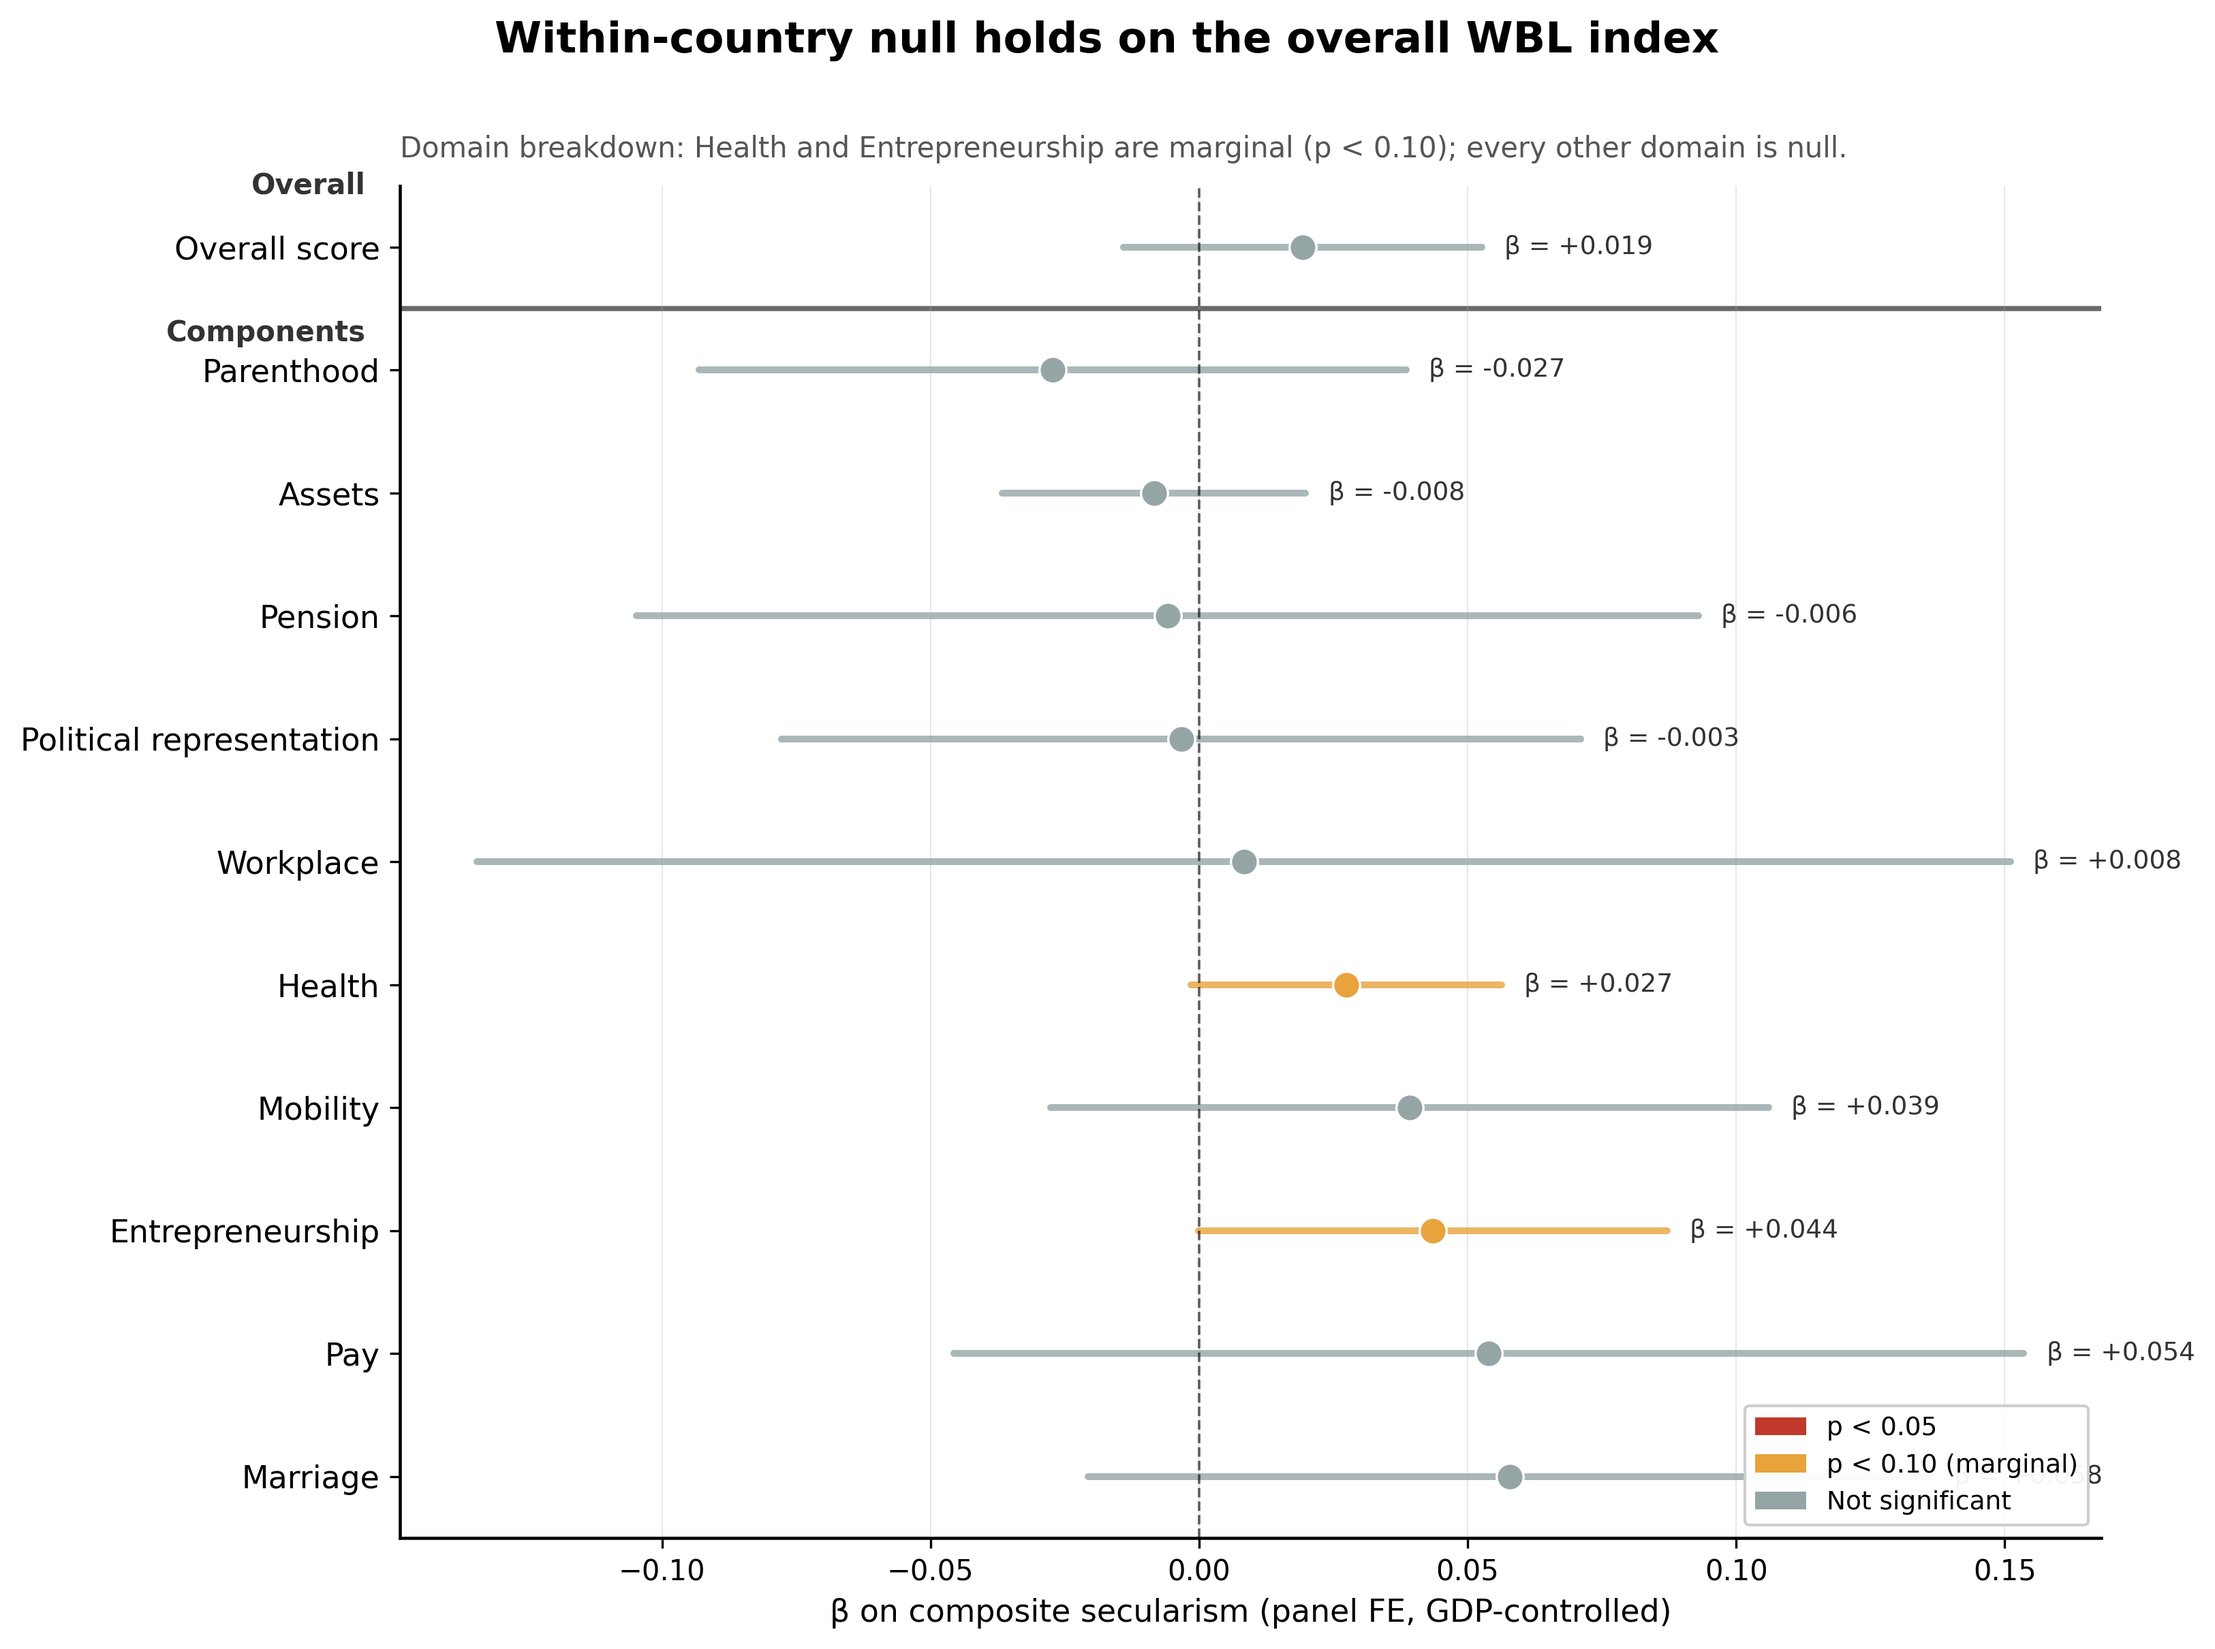
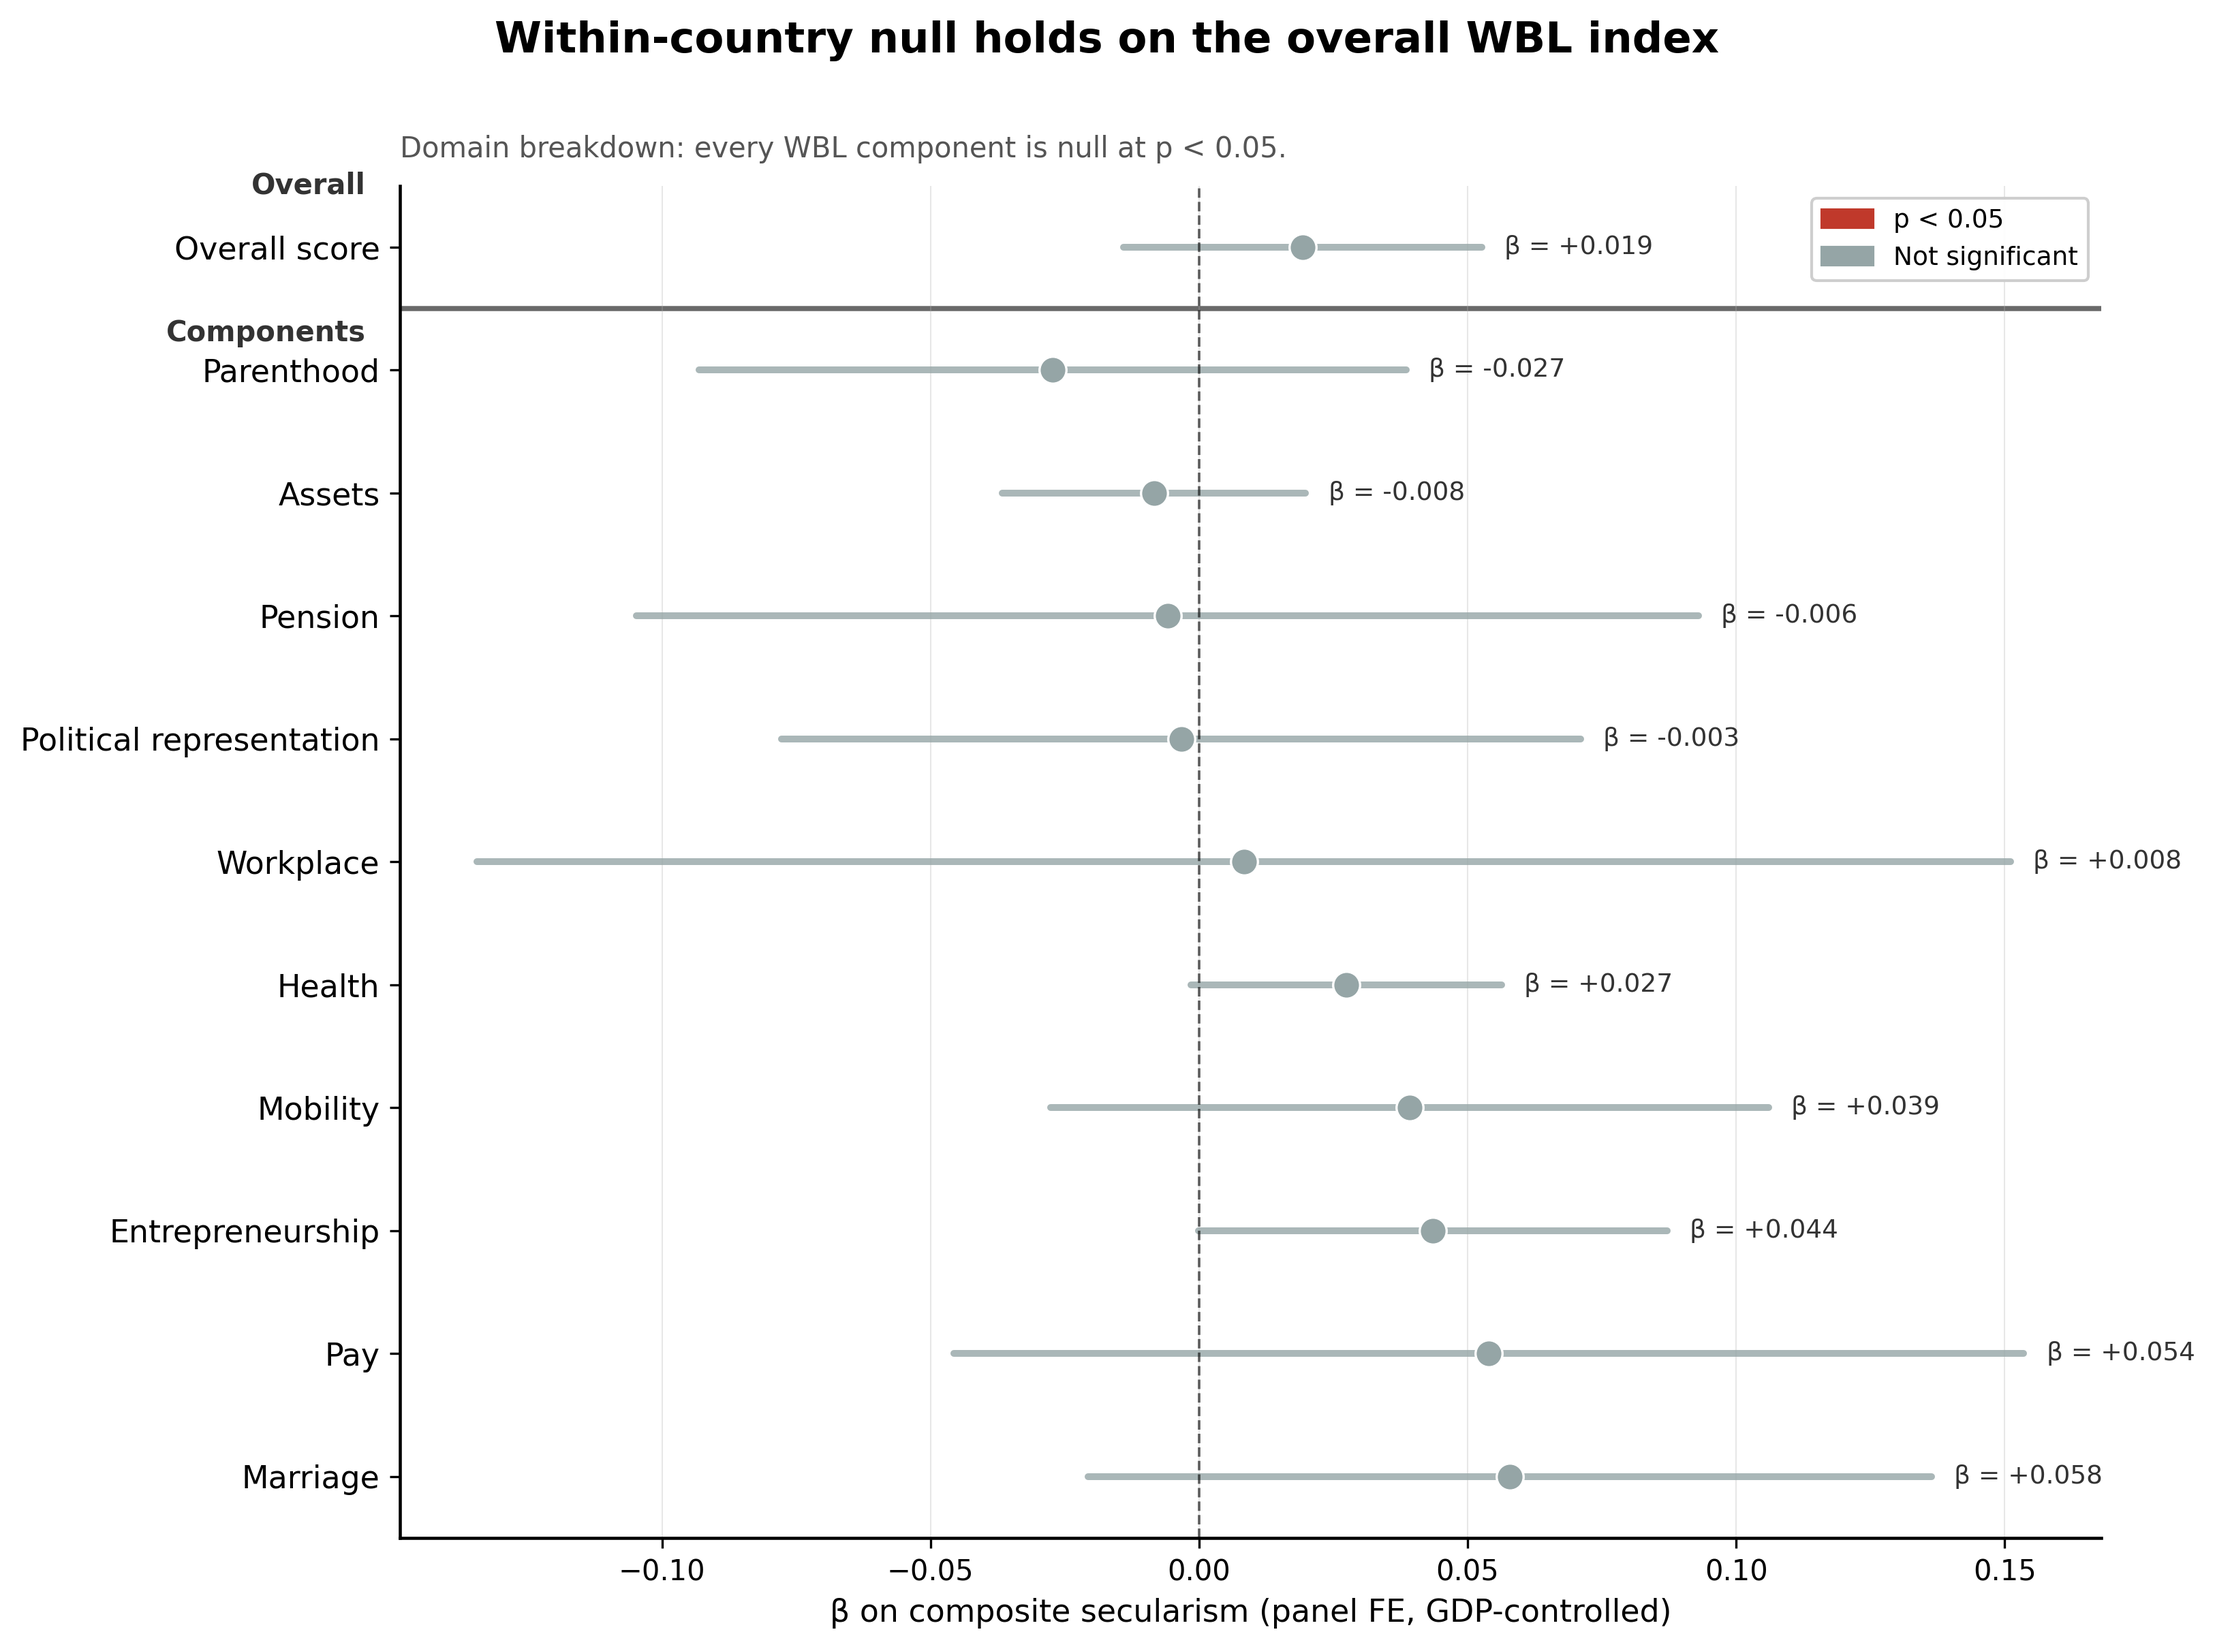
fix(figures): coefplot focal styling + wbl/scatter/mundlak   polish pass
plot_coefplot: focal-row emphasis (amber band, bigger
  markers, thicker CI, bolder labels/annotations) gated on p<0.05. Non-sig
  focals render identically to other grey rows. Non-focal alpha 0.45 -> 0.85.
   Divider between hypothesis rows and controls. Stars dropped from focal
  annotations; n.s. retained for non-sig focals. plot_wbl_groups: two-tier
  palette with 2-entry legend upper-right, subtitle 'every WBL component is
  null at p<0.05', clean 'beta = +X.XXX' annotations. plot_scatter +
  plot_mundlak_decomposition: downstream tweaks from shared helper edits.
  Invariant: results/, data/outcome_wbl.csv, data/predictors.csv untouched;
  pipeline not re-run.

diff --git a/analysis/run_plots.py b/analysis/run_plots.py
@@ -243,7 +243,7 @@ def plot_scatter(df: pd.DataFrame):
         ols = sm.OLS(snap[OUTCOME], X).fit(cov_type="HC3")
         beta = ols.params[pred]
         pval = ols.pvalues[pred]
-        stars = _sig_stars(pval) or "n.s."
+        ns_suffix = "   n.s." if pval >= 0.05 else ""
 
         if pred == FOCAL_PRED_2:
             # Right panel — violin + jittered strip. Apostasy is binary-
@@ -274,7 +274,7 @@ def plot_scatter(df: pd.DataFrame):
             ax.set_xticks([0, 1])
             ax.set_xticklabels(["No apostasy law", "Apostasy law"])
             ax.annotate(
-                f"β = {beta:+.3f}   p = {pval:.3g}   {stars}\n"
+                f"β = {beta:+.3f}   p = {pval:.3g}{ns_suffix}\n"
                 f"n = {int(ols.nobs)}   (T1 full controls)",
                 xy=(0.03, 0.05), xycoords="axes fraction",
                 fontsize=11, ha="left", va="bottom",
@@ -302,7 +302,7 @@ def plot_scatter(df: pd.DataFrame):
             ax.fill_between(x_grid, ci[:, 0], ci[:, 1], color=line_color,
                             alpha=0.12, label="95% CI")
             ax.annotate(
-                f"β = {beta:+.3f}   p = {pval:.3g}   {stars}\n"
+                f"β = {beta:+.3f}   p = {pval:.3g}{ns_suffix}\n"
                 f"n = {int(ols.nobs)}   (T1 full controls)",
                 xy=(0.03, 0.05), xycoords="axes fraction",
                 fontsize=11, ha="left", va="bottom",
@@ -391,7 +391,7 @@ def plot_coefplot():
     fig.text(
         0.5, 0.96,
         "Coefficient estimates with 95% CIs; GDP-controlled.",
-        ha="center", fontsize=10.5, color="#555",
+        ha="center", fontsize=10.5, color="black",
     )
 
     for ax, tier in zip(axes, tier_order):
@@ -435,42 +435,45 @@ def plot_coefplot():
         plot_rows = plot_rows.iloc[::-1].reset_index(drop=True)
         ys = np.arange(len(plot_rows))
 
-        # Highlight the focal rows
-        for i, row in plot_rows.iterrows():
-            if row["focal"]:
-                ax.axhspan(i - 0.5, i + 0.5,
-                           color=PALETTE["highlight_bg"], alpha=0.9, zorder=0)
-
         ctrl_idx = [i for i, row in plot_rows.iterrows() if row["is_control"]]
         if ctrl_idx:
             # Horizontal divider between hypothesis rows (above) and controls
-            # (below). Replaces the prior light-grey background band.
-            ax.axhline(max(ctrl_idx) + 0.5, color="#333", linewidth=0.8,
-                       alpha=0.7, zorder=1)
+            # (below). Solid black, no translucency.
+            ax.axhline(max(ctrl_idx) + 0.5, color="black", linewidth=0.8,
+                       zorder=1)
 
+        # Solid pale-amber band behind the top two focal rows (Apostasy law
+        # and Composite secularism) — regardless of significance — to signpost
+        # them as the pre-registered focal predictors. No alpha: the colour
+        # itself (#FDF2E9) is already pale enough.
+        for i, row in plot_rows.iterrows():
+            if row["focal"]:
+                ax.axhspan(i - 0.5, i + 0.5,
+                           color=PALETTE["highlight_bg"], zorder=0)
+
+        # Uniform styling across all rows — same marker size, same line width,
+        # no translucency. The ONLY visual distinction between rows is colour
+        # (red for p<0.05, grey otherwise) via _sig_colour.
         for i, row in plot_rows.iterrows():
             color = _sig_colour(row["pval"])
-            alpha = 1.0 if row["focal"] else 0.45
-            marker_size = 110 if row["focal"] else 60
-            lw = 2.4 if row["focal"] else 1.5
-
             ax.plot([row["coef"] - row["ci95"], row["coef"] + row["ci95"]], [i, i],
-                    color=color, linewidth=lw, alpha=alpha, solid_capstyle="round",
+                    color=color, linewidth=1.8, solid_capstyle="round",
                     zorder=2)
-            ax.scatter(row["coef"], i, color=color, s=marker_size,
-                       edgecolors="white", linewidths=0.8, zorder=3, alpha=alpha)
+            ax.scatter(row["coef"], i, color=color, s=70,
+                       edgecolors="white", linewidths=0.8, zorder=3)
 
             if row["focal"]:
-                stars = _sig_stars(row["pval"]) or "n.s."
+                suffix = "" if row["pval"] < 0.05 else "  n.s."
                 ax.annotate(
-                    f"{row['coef']:+.3f}  {stars}",
+                    f"{row['coef']:+.3f}{suffix}",
                     xy=(row["coef"] + row["ci95"], i),
                     xytext=(8, 0), textcoords="offset points",
-                    fontsize=10, fontweight="bold", va="center",
-                    color="#222",
+                    fontsize=10,
+                    va="center",
+                    color="black",
                 )
 
-        ax.axvline(0, color="black", linewidth=0.9, linestyle="--", alpha=0.6)
+        ax.axvline(0, color="black", linewidth=0.9, linestyle="--")
         ax.set_yticks(ys)
         tick_labels = []
         for _, r in plot_rows.iterrows():
@@ -479,17 +482,14 @@ def plot_coefplot():
             else:
                 tick_labels.append(r["label"])
         ax.set_yticklabels(tick_labels, fontsize=10)
-        # Bold the focal tick labels; everything else renders in standard grey.
-        for lbl, r in zip(ax.get_yticklabels(), plot_rows.itertuples()):
-            if r.focal:
-                lbl.set_fontweight("bold")
-                lbl.set_color("#222")
-            else:
-                lbl.set_color("#666")
+        # Uniform tick labels: all solid black, no bold differential,
+        # no translucency.
+        for lbl in ax.get_yticklabels():
+            lbl.set_color("black")
 
-        ax.set_title(tier_titles[tier], fontsize=13, fontweight="bold", loc="left", pad=8)
-        ax.set_xlabel("β")
-        ax.grid(axis="x", alpha=0.3, linewidth=0.5)
+        ax.set_title(tier_titles[tier], fontsize=13, fontweight="bold",
+                     loc="left", pad=8, color="black")
+        ax.set_xlabel("β", color="black")
 
     # Shared y-axis: right panel re-uses the left panel's labels.
     axes[1].tick_params(labelleft=False)
@@ -695,16 +695,17 @@ def plot_placebo():
         ax.errorbar(i, coef, yerr=ci, fmt="none",
                     color="#333" if a == 1.0 else "#999",
                     capsize=5, linewidth=1.4)
-        stars = _sig_stars(pval) or "n.s."
+        sig_label = "" if pval < 0.05 else "n.s."
         # Always place the annotation ABOVE zero so it stays inside the plot.
         y_ann = max(coef + ci, 0) + 0.003
-        ax.text(i, y_ann, stars, ha="center", va="bottom",
-                fontsize=13 if a == 1.0 else 10,
-                fontweight="bold", color="#222" if a == 1.0 else "#666")
+        if sig_label:
+            ax.text(i, y_ann, sig_label, ha="center", va="bottom",
+                    fontsize=13 if a == 1.0 else 10,
+                    fontweight="bold", color="#222" if a == 1.0 else "#666")
 
     ax.axhline(0, color="black", linewidth=0.9, linestyle="--", alpha=0.6)
 
-    # Pad y-axis so the "n.s." stars above zero do not collide with the title
+    # Pad y-axis so the "n.s." labels above zero do not collide with the title
     upper = max(np.max(coefs + ci95), 0) + 0.012
     lower = min(np.min(coefs - ci95), 0) - 0.005
     ax.set_ylim(lower, upper)
@@ -1065,9 +1066,12 @@ def plot_alternative_outcomes():
                    edgecolors=color, linewidths=1.5,
                    s=80, zorder=4)
 
-        # Stars + N annotation to the right
-        stars = sig if sig else "n.s."
-        ann   = f"{stars}  N={row['n']:,}"
+        # "n.s." + N annotation to the right (no significance stars).
+        ann_parts = []
+        if not sig:
+            ann_parts.append("n.s.")
+        ann_parts.append(f"N={row['n']:,}")
+        ann = "  ".join(ann_parts)
         if row["unit"] != "[0,1]":
             ann += f"  [{row['unit']}]"
         ax.annotate(ann, xy=(row["coef"] + ci95, i),
@@ -1142,25 +1146,13 @@ def plot_wbl_groups():
     }
     focal["group_label"] = focal["group_label"].replace(WBL_GROUP_RENAME)
 
-    def _sig_colour_wbl(pval):
-        # Three-tier palette used only on this figure: p<0.05, p<0.10
-        # marginal, n.s. Red and grey piggyback on the deck's existing
-        # two-tier palette via _sig_colour; amber is unique to this plot.
-        if pd.isna(pval):
-            return _sig_colour(1.0)
-        if pval < 0.05:
-            return _sig_colour(0.01)
-        if pval < 0.10:
-            return "#e8a33d"
-        return _sig_colour(1.0)
-
     n = len(focal)
     fig, ax = plt.subplots(figsize=(11, max(5, n * 0.55 + 2)))
 
     for j in range(n):
         row   = focal.iloc[j]
         y_pos = n - 1 - j
-        color = _sig_colour_wbl(row["pval"])
+        color = _sig_colour(row["pval"])
         ci95  = 1.96 * row["se"]
 
         ax.plot([row["coef"] - ci95, row["coef"] + ci95], [y_pos, y_pos],
@@ -1204,22 +1196,15 @@ def plot_wbl_groups():
         fontsize=15, fontweight="bold", y=1.00,
     )
     ax.set_title(
-        "Domain breakdown: Health and Entrepreneurship are marginal "
-        "(p < 0.10); every other domain is null.",
+        "Domain breakdown: every WBL component is null at p < 0.05.",
         fontsize=10, fontweight="normal", color="#555",
         loc="left", pad=10,
     )
 
     ax.grid(axis="x", alpha=0.3, linewidth=0.5)
 
-    from matplotlib.patches import Patch
-    legend_handles = [
-        Patch(facecolor=_sig_colour(0.01),  label="p < 0.05"),
-        Patch(facecolor="#e8a33d",          label="p < 0.10 (marginal)"),
-        Patch(facecolor=_sig_colour(1.0),   label="Not significant"),
-    ]
-    ax.legend(handles=legend_handles, loc="lower right", frameon=True,
-              framealpha=0.95, fontsize=9)
+    ax.legend(handles=_sig_legend_handles(), loc="upper right",
+              frameon=True, framealpha=0.95, fontsize=9)
 
     plt.tight_layout()
     plt.savefig(OUT_WBL_GROUPS, dpi=300, bbox_inches="tight")
@@ -1539,13 +1524,8 @@ def plot_mundlak_decomposition():
         ax.tick_params(axis="y", length=0)
         ax.grid(axis="x", alpha=0.3, linewidth=0.5)
 
-        for i, (c, p, se) in enumerate(zip(coefs, pvals, ses)):
-            star = _sig_stars(p)
-            if star:
-                x_off = 1.96 * se + 0.002 if c >= 0 else -(1.96 * se + 0.002)
-                ha = "left" if c >= 0 else "right"
-                ax.text(c + x_off, i, star, va="center", ha=ha,
-                        fontsize=11, fontweight="bold")
+        # Significance stars removed per design direction — colour already
+        # encodes p<0.05 vs not significant via _sig_colour.
 
     fig.suptitle(
         "Secularism's effect is structural: between-country gap dwarfs within-country change",
@@ -1693,8 +1673,10 @@ def plot_long_difference():
                 solid_capstyle="round", zorder=2)
         ax.scatter(r["coef"], i, color=color, s=80, edgecolors="white",
                    linewidths=0.8, zorder=3, alpha=alpha)
-        stars = _sig_stars(r["p"]) or "n.s."
-        note_parts = [f"{r['coef']:+.3f}", stars]
+        sig_label = "" if r["p"] < 0.05 else "n.s."
+        note_parts = [f"{r['coef']:+.3f}"]
+        if sig_label:
+            note_parts.append(sig_label)
         if r["n_changers"] is not None:
             note_parts.append(f"(nΔ={r['n_changers']})")
         if not r["valid"]:
